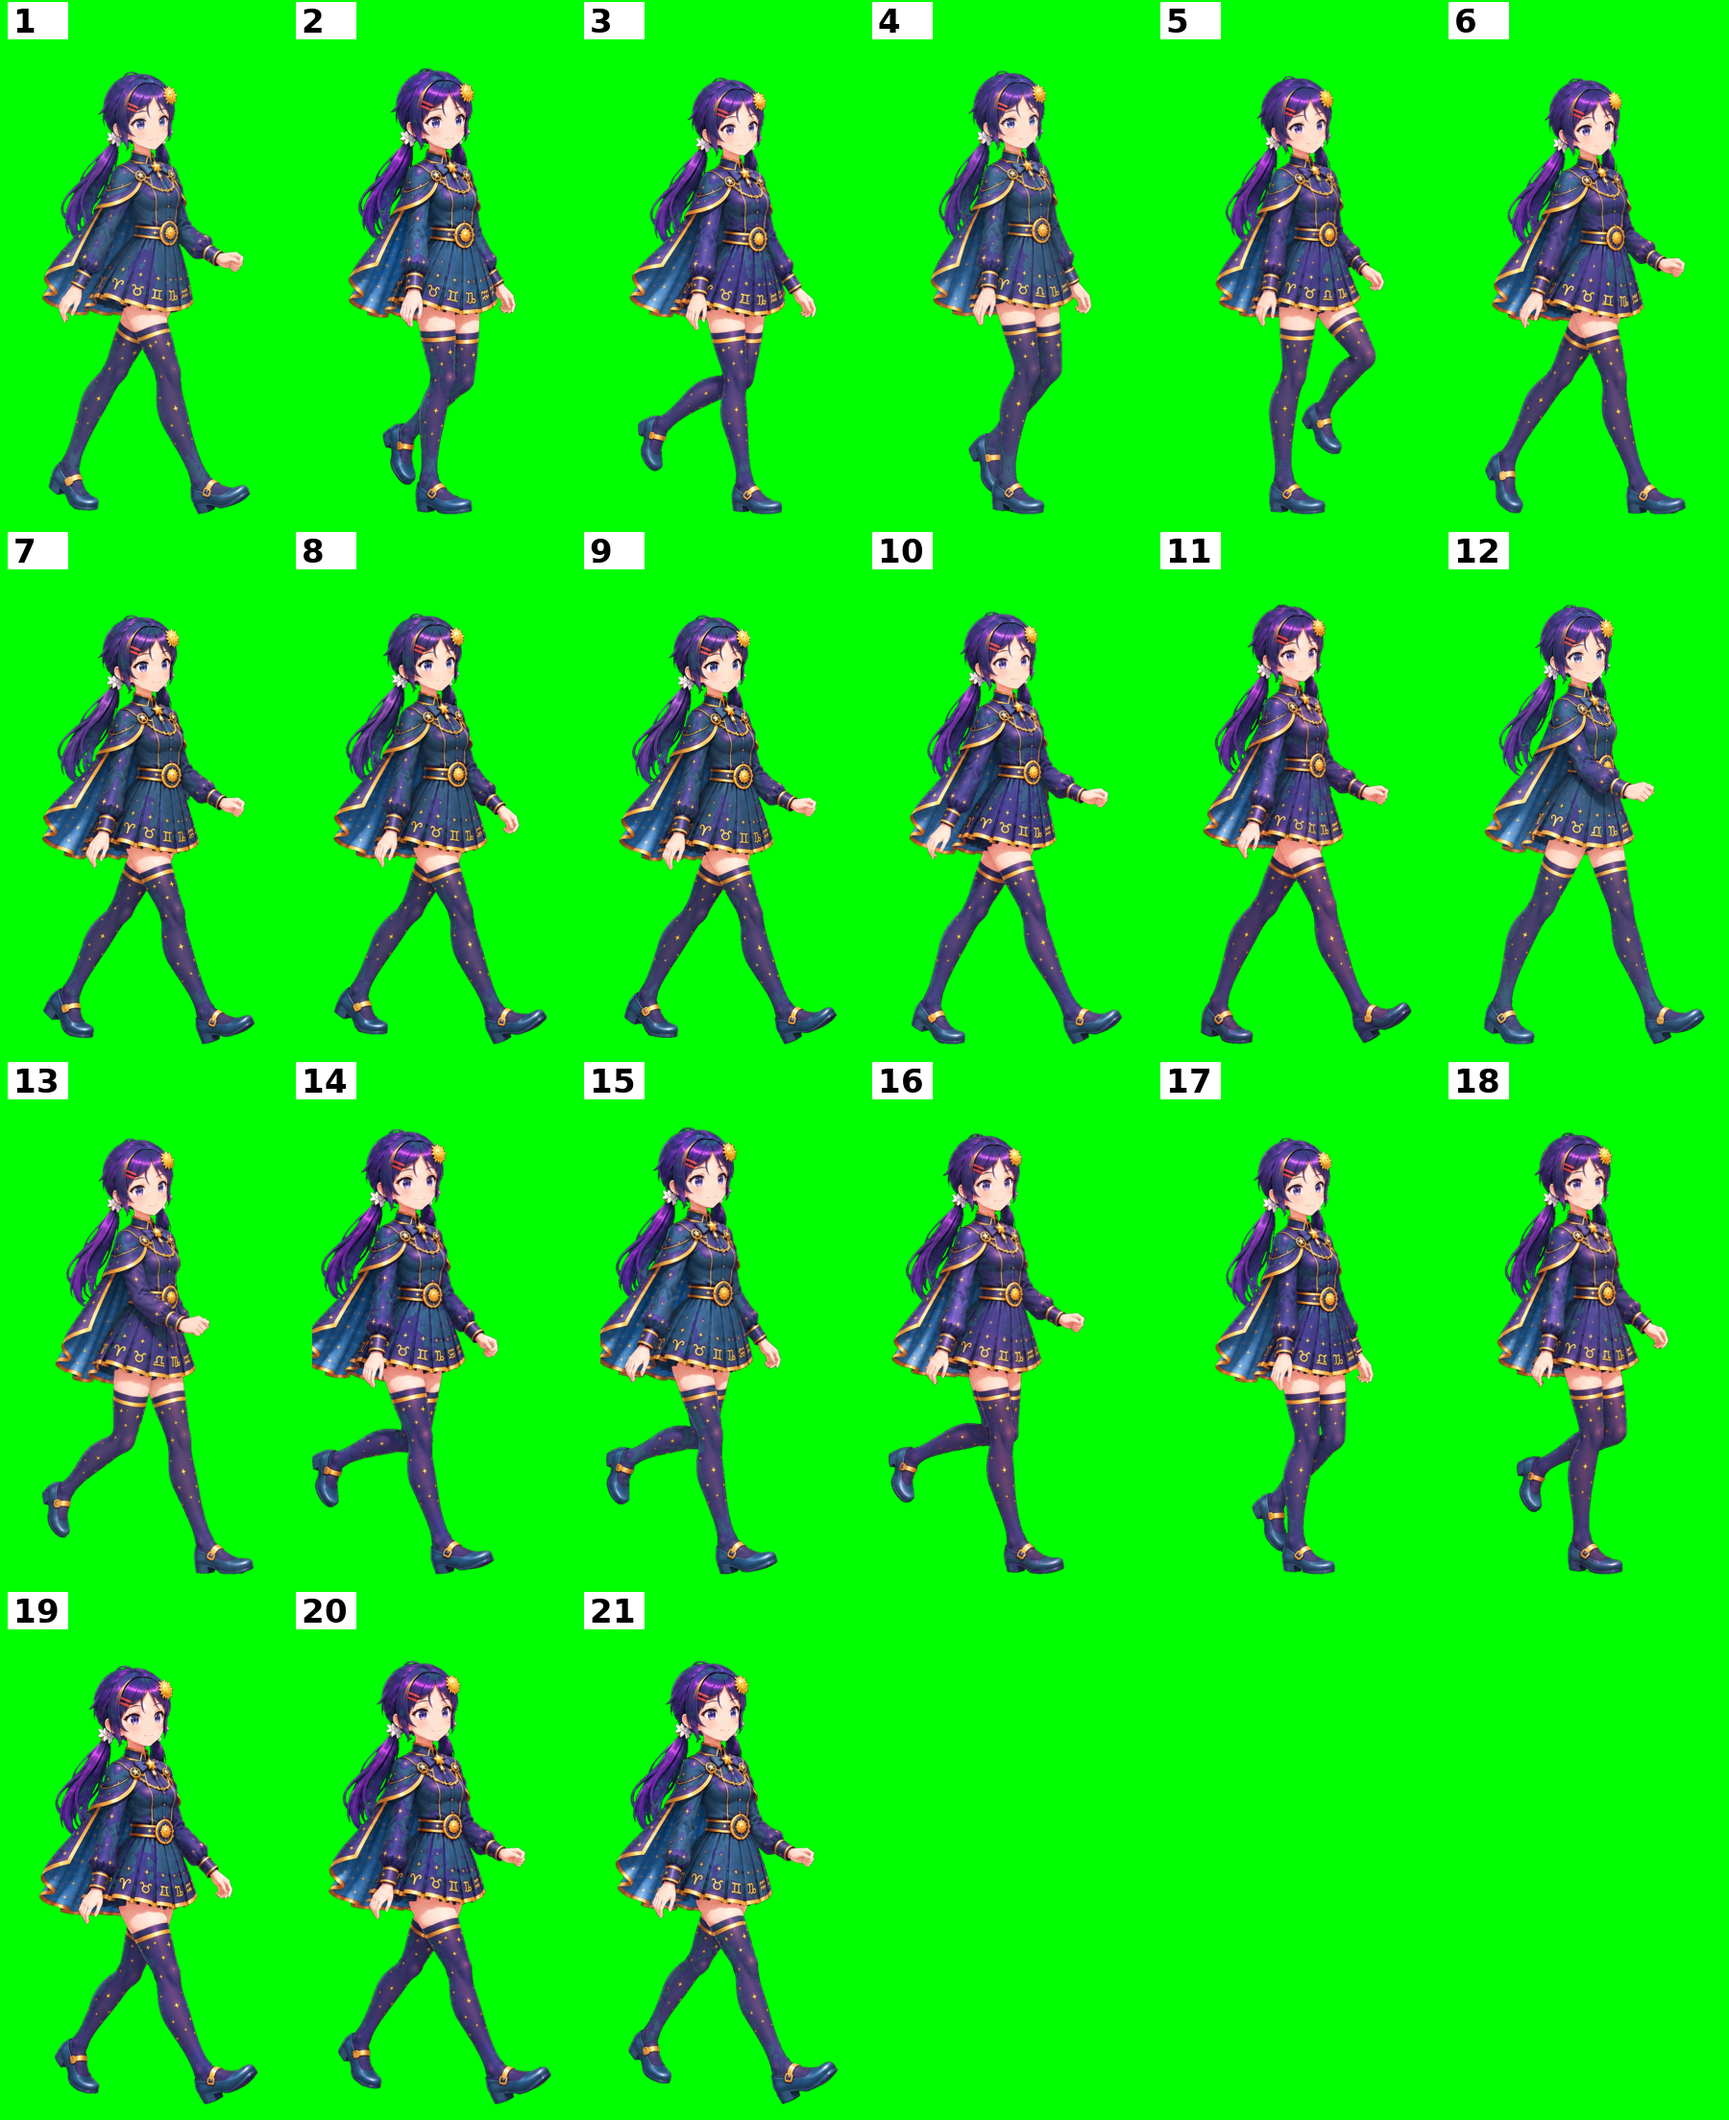
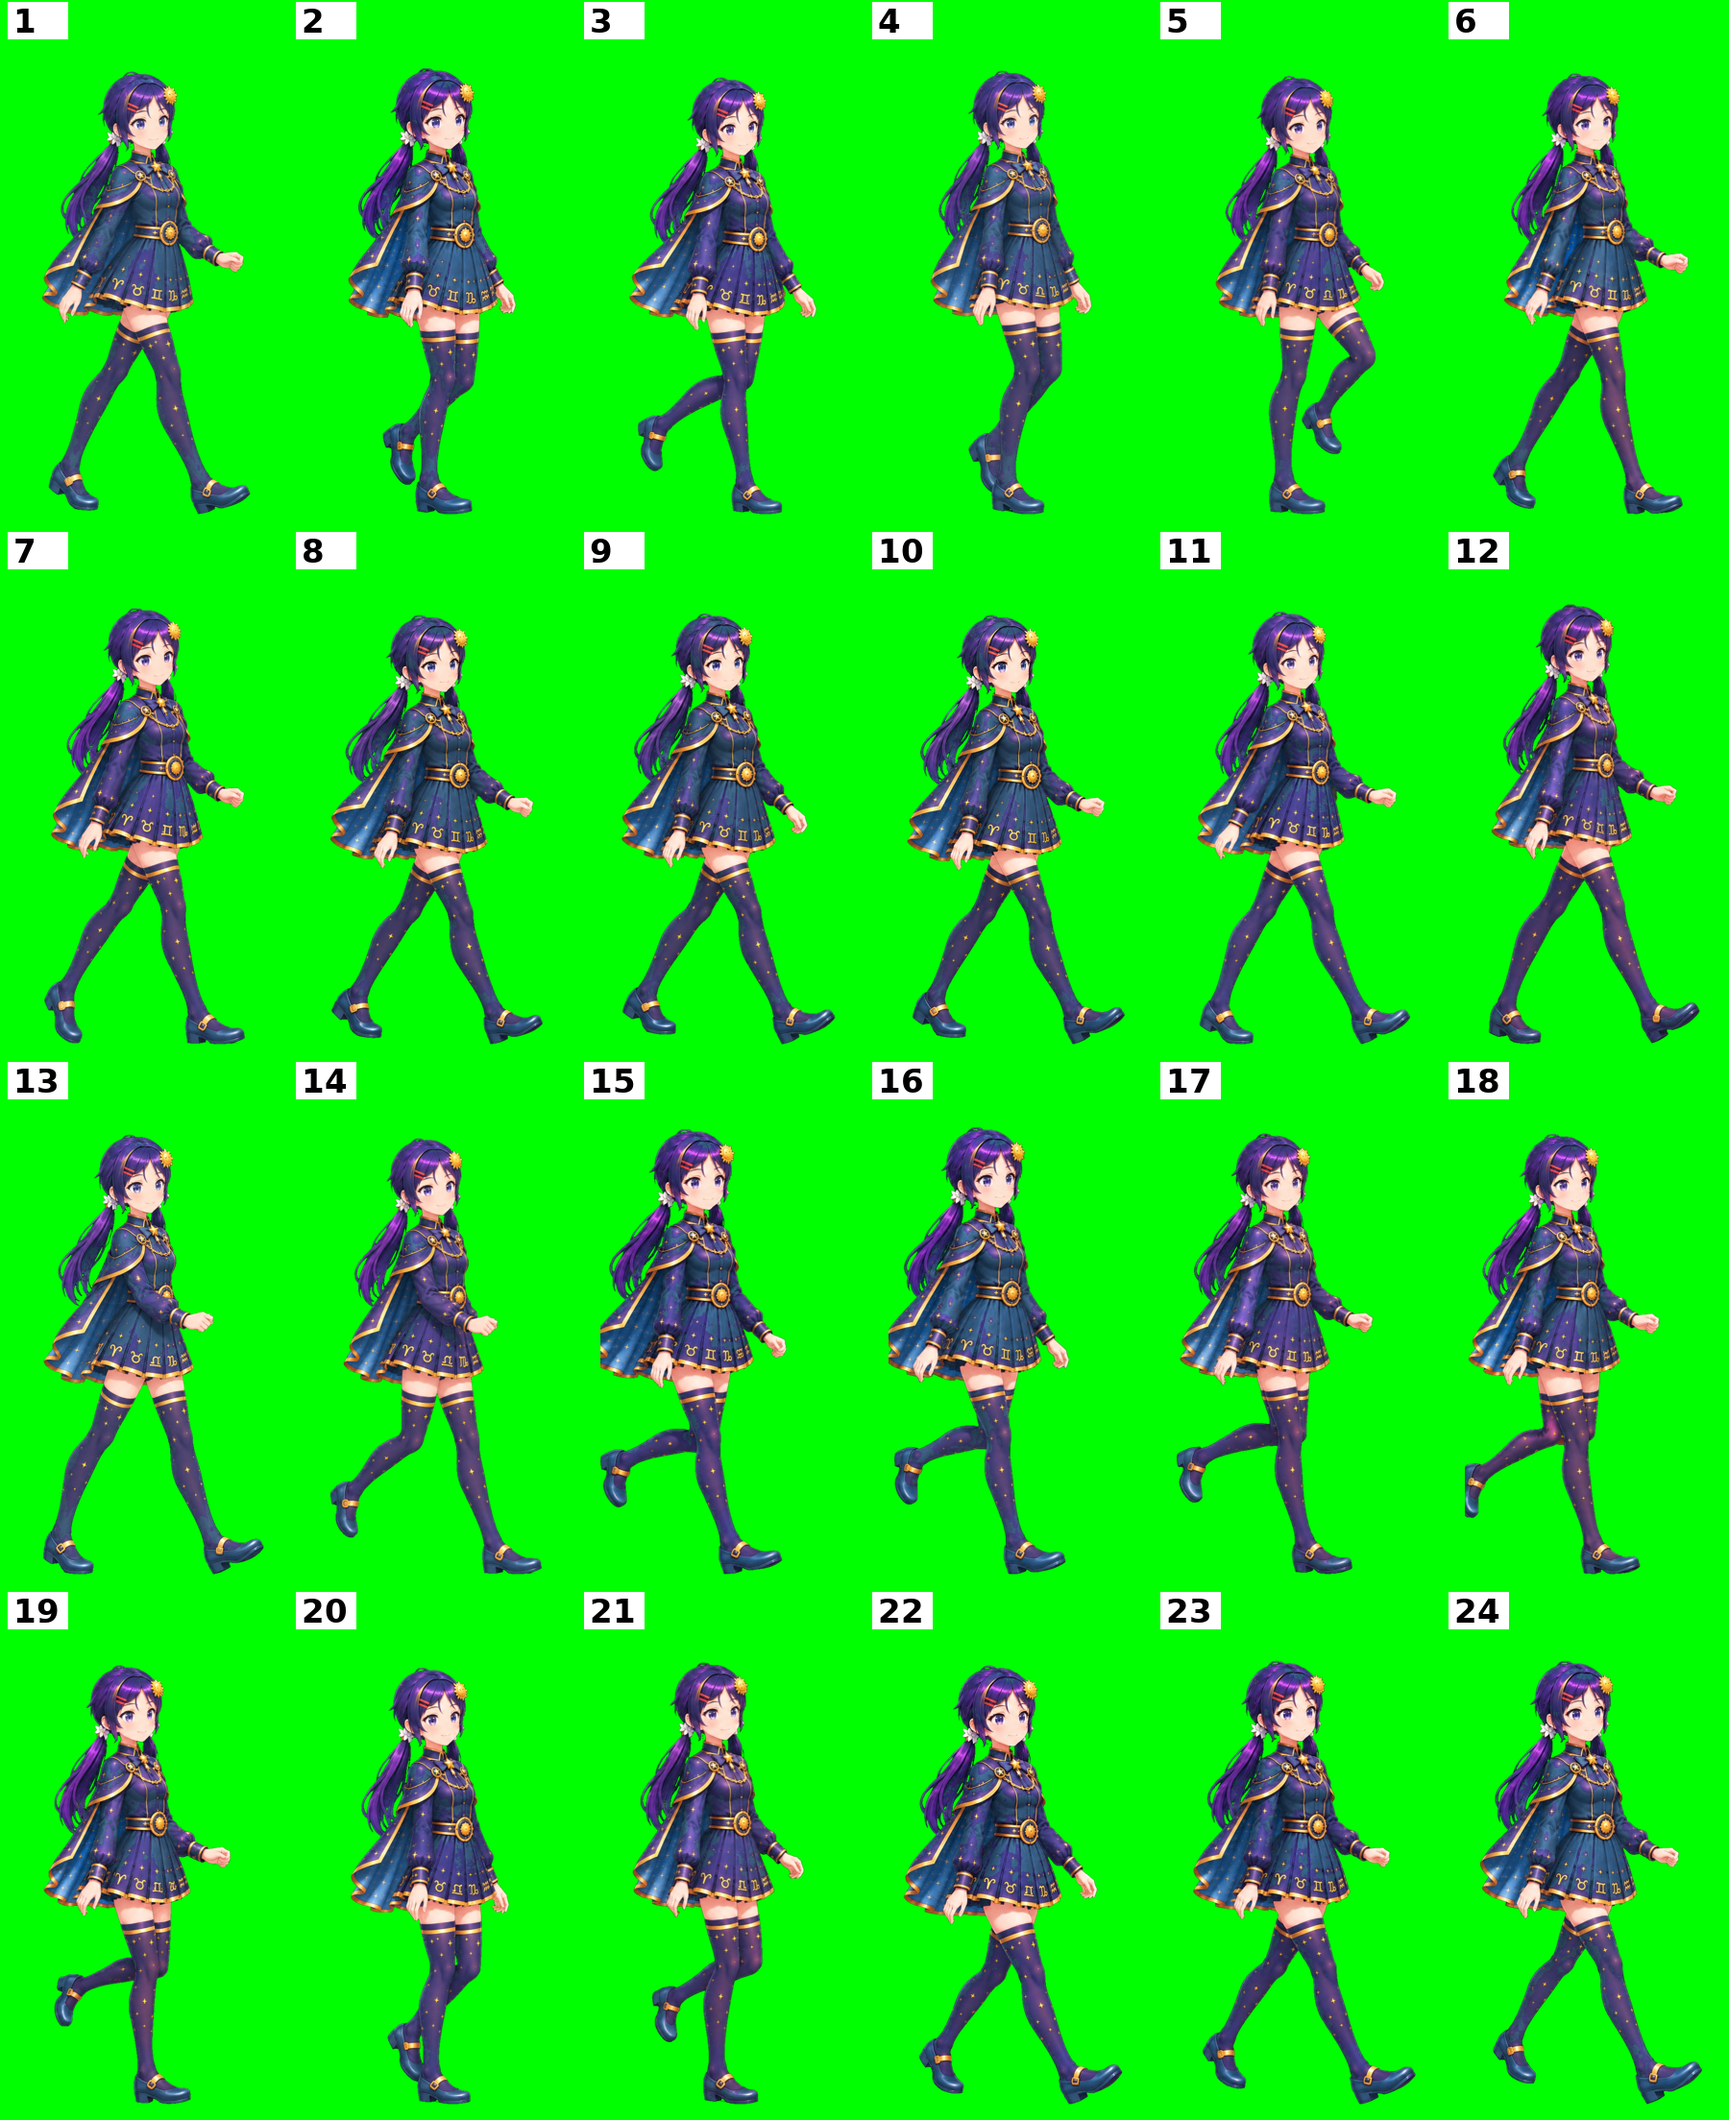
51-mita-craft: ходьба — лист 8 (24 позы)
Claude-Session: https://claude.ai/code/session_012PNwYZXdw6QfqQCMnTcc5j

diff --git a/projects/51-mita-craft/tools/make_frames.py b/projects/51-mita-craft/tools/make_frames.py
@@ -26,7 +26,7 @@ SHEETS = {
     'sweep_k': 'sweep_1 sweep_5 sweep_9', 'sweep_i1': 'sweep_3 sweep_7 sweep_10',
     'walk_k': 'walk_a walk_b walk_c', 'walk_i1': 'walk_ab walk_bc walk_d', 'walk_i2': 'walk_cd walk_da walk_a2',
     'walk_i3': 'walk_x1 walk_x2 walk_x3', 'walk_i4': 'walk_x4 walk_x5 walk_x6', 'walk_i5': 'walk_x7 walk_x8 walk_x9',
-    'walk_i6': 'walk_y1 walk_y2 walk_y3', 'walk_i7': 'walk_y4 walk_y5 walk_y6',
+    'walk_i6': 'walk_y1 walk_y2 walk_y3', 'walk_i7': 'walk_y4 walk_y5 walk_y6', 'walk_i8': 'walk_y7 walk_y8 walk_y9',
 }
 THIRDS = set()            # бюсты касаются друг друга — режем строго по третям
 CW = 768
